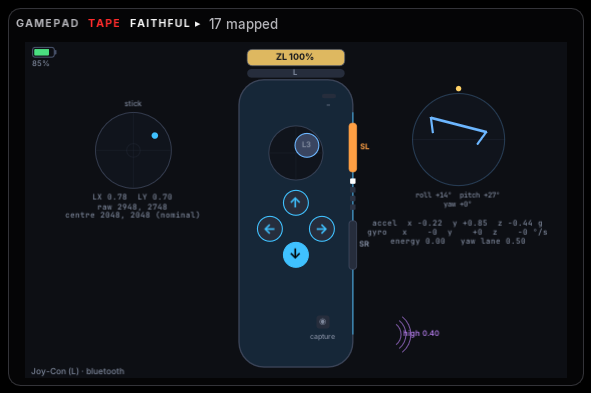
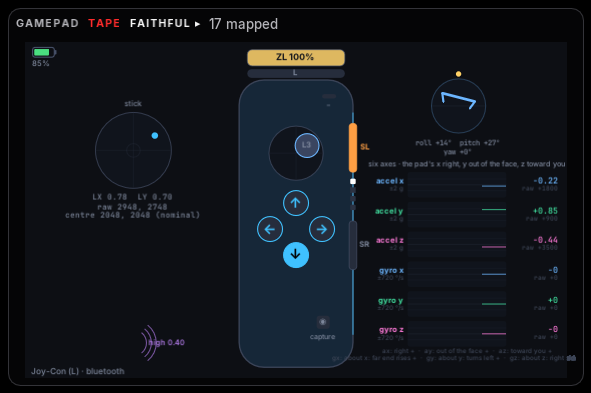
Plan 46: all six axes in the pad window — a scope in Faithful, bars in Cockpit
- ui_pad_lab._scope: the accelerometer's x, y, z in g and the gyro's x,
  y, z in deg/s as six scrolling traces (the last 180 frames, kept on
  the panel), the value now and the chip's own count beside each, the
  axes' meaning under them; _six_bars: the same six as bipolar bars for
  the Cockpit, under the dial
- ui_pad_views.Reading.raw_sensors: the chip's counts beside the
  calibrated reading
- Faithful's rumble rings moved under the stick's well; the Joy-Con shots
  re-rendered; a test that the scope keeps six capped traces

Claude-Session: https://claude.ai/code/session_01MdgFGMN9iTxjaBgkToskkT

diff --git a/hyperspace-python/hyperspace/ui_pad_lab.py b/hyperspace-python/hyperspace/ui_pad_lab.py
@@ -858,24 +858,15 @@ def _faithful_joycon(p: Pen, r, st: dict, now: float, players, r_low, r_high) ->
     for i in range(4):
         p.rr(rail_x - 5, 252 + i * 16, 10, 10, 2)
         p.fill("#ffffff" if (lit >> i) & 1 else "#2b3242")
-    _rumble_rings(p, r_low, r_high, 330, 540, 670, 540)
+    _rumble_rings(p, r_low, r_high, 200, 470, 200, 555)        # under the stick's well
     p.restore()
-    # the tilt, big, and the sensors' numbers under it
+    # the tilt (what the lanes make of it), then all six axes as traces
     if r.has("motion"):
-        _attitude(p, r, st, 800, 180, 85, True, now)
-        s = r.sensors
-        if s is not None:
-            (gx, gy, gz), (ax, ay, az) = s
-            p.text(f"accel  x {ax:+.2f}  y {ay:+.2f}  z {az:+.2f} g", 800, 335, size=11,
-                   color="dim", mono=True)
-            p.text(f"gyro   x {gx:+5.0f}  y {gy:+5.0f}  z {gz:+5.0f} °/s", 800, 352, size=11,
-                   color="dim", mono=True)
+        _attitude(p, r, st, 800, 118, 50, True, now)
         m = r.motion
-        if m is not None:
-            p.text(f"energy {m.get('energy', 0.0):.2f}   yaw lane {m.get('yaw', 0.5):.2f}",
-                   800, 369, size=11, color="dim", mono=True)
         if m is not None and _pulse(st, "shake_word", bool(m.get("shake")), now):
-            p.text("SHAKE", 800, 440, size=22, color="hot", weight=800)
+            p.text("SHAKE", 930, 60, size=20, color="hot", weight=800)
+        _scope(p, r, st, 648, 236, 336, 55)
     # the stick's calibration: its well with the deadzone ring, the reading
     cx, cy, rad = 200, 200, 70
     p.circle(cx, cy, rad)
@@ -927,6 +918,7 @@ def _cockpit_joycon(p: Pen, r, st: dict, now: float, players, r_low, r_high) -> 
     _dial(p, r, st, 245, 270, "L" if left else "R", _trig(None), stick="LSTICK", ax="LX", ay="LY")
     if r.has("motion"):
         _attitude(p, r, st, 640, 240, 115, True, now)
+        _six_bars(p, r, 104, 438, 282)             # all six axes, as bars, under the dial
     names = ("VIEW", "SHARE") if left else ("MENU", "GUIDE")
     for i, n in enumerate(names):
         x, on = 608 + i * 64, _pressed(r, n)
@@ -953,6 +945,114 @@ def _cockpit_joycon(p: Pen, r, st: dict, now: float, players, r_low, r_high) -> 
             p.fill(c)
         p.text(f"rumble {lbl}", x + 30, 368, size=8, color="faint")
     _ticker(p, r, st, now)
+
+
+# the six axes: (key, label, unit, full scale), accel in g then gyro in deg/s,
+# in the pad's axes — x right, y up out of the face, z toward the player
+SCOPE_N = 180                 # samples kept per trace (~3 s at the pad window's rate)
+ACCEL_FS, GYRO_FS = 2.0, 720.0
+SIX_AXES = (("ax", "accel x", "g", ACCEL_FS), ("ay", "accel y", "g", ACCEL_FS),
+            ("az", "accel z", "g", ACCEL_FS), ("gx", "gyro x", "°/s", GYRO_FS),
+            ("gy", "gyro y", "°/s", GYRO_FS), ("gz", "gyro z", "°/s", GYRO_FS))
+SIX_INK = {"ax": "#6cb6ff", "ay": "#40e0a0", "az": "#ff7ad9", "gx": "#6cb6ff", "gy": "#40e0a0",
+           "gz": "#ff7ad9"}
+SIX_WORDS = {"ax": "right +", "ay": "out of the face +", "az": "toward you +",
+             "gx": "about x: far end rises +", "gy": "about y: turns left +",
+             "gz": "about z: right side rises +"}
+
+
+def _six(r) -> dict[str, float] | None:
+    """The six axes this frame, by key, or None without sensor data."""
+    s = r.sensors
+    if s is None:
+        return None
+    (gx, gy, gz), (ax, ay, az) = s
+    return {"ax": ax, "ay": ay, "az": az, "gx": gx, "gy": gy, "gz": gz}
+
+
+def _scope(p: Pen, r, st: dict, x, y, w, row_h) -> None:
+    """All six degrees of freedom as traces (plan 46): the accelerometer's
+    x, y, z in g and the gyro's x, y, z in deg/s, each row the last
+    `SCOPE_N` frames scrolling left, its baseline at zero, the value now
+    and the chip's own count at the right. The traces are the state kept
+    on the panel (`st["scope"]`)."""
+    six = _six(r)
+    traces = st.setdefault("scope", {k: [] for k, *_ in SIX_AXES})
+    raw = r.raw_sensors
+    raw_by = {}
+    if raw is not None:
+        (rgx, rgy, rgz), (rax, ray, raz) = raw
+        raw_by = {"ax": rax, "ay": ray, "az": raz, "gx": rgx, "gy": rgy, "gz": rgz}
+    p.text("six axes · the pad's x right, y out of the face, z toward you", x + w / 2,
+           y - 10, size=10.5, color="dim")
+    label_w, val_w = 58, 96
+    tx0, tw = x + label_w, w - label_w - val_w
+    for k, (key, label, unit, fs) in enumerate(SIX_AXES):
+        ry = y + k * row_h
+        mid = ry + row_h / 2
+        tr = traces.setdefault(key, [])
+        if six is not None:
+            tr.append(float(six[key]))
+            del tr[:-SCOPE_N]
+        ink = SIX_INK[key]
+        p.rr(tx0, ry + 4, tw, row_h - 8, 4)
+        p.fill("well")
+        p.lines((tx0, mid), (tx0 + tw, mid))
+        p.stroke("#2a3242", 1)
+        for frac in (0.5, -0.5):                          # half scale, faint
+            p.lines((tx0, mid - frac * (row_h / 2 - 6)), (tx0 + tw, mid - frac * (row_h / 2 - 6)))
+            p.stroke("#1c2230", 1)
+        if len(tr) >= 2:
+            n = len(tr)
+            pts = [(tx0 + tw * (i / (SCOPE_N - 1)) + tw * (1 - (n - 1) / (SCOPE_N - 1)),
+                    mid - max(-1.0, min(1.0, v / fs)) * (row_h / 2 - 6)) for i, v in enumerate(tr)]
+            p.lines(*pts)
+            p.stroke(ink, 1.6, cap="round")
+        p.text(label, x + label_w - 6, mid - 6, size=11, color=ink, align="right", weight=700)
+        p.text(f"±{fs:g} {unit}", x + label_w - 6, mid + 8, size=9, color="faint", align="right")
+        if six is not None:
+            v = six[key]
+            p.text(f"{v:+.2f}" if unit == "g" else f"{v:+.0f}", x + w, mid - 6, size=12,
+                   color=ink, align="right", mono=True, weight=700)
+            if key in raw_by:
+                p.text(f"raw {raw_by[key]:+d}", x + w, mid + 8, size=9, color="faint",
+                       align="right", mono=True)
+        else:
+            p.text("—", x + w, mid, size=12, color="faint", align="right")
+    p.text("  ·  ".join(f"{k}: {SIX_WORDS[k]}" for k in ("ax", "ay", "az")), x + w / 2,
+           y + 6 * row_h + 6, size=9, color="faint")
+    p.text("  ·  ".join(f"{k}: {SIX_WORDS[k]}" for k in ("gx", "gy", "gz")), x + w / 2,
+           y + 6 * row_h + 18, size=9, color="faint")
+    p.hit(x, y, w, 6 * row_h, "motion:spin.roll")
+
+
+def _six_bars(p: Pen, r, x, y, w) -> None:
+    """The six axes as bipolar bars, for a glance: a bar from the centre
+    for each, the accelerometer's in g, the gyro's in deg/s."""
+    six = _six(r)
+    row_h = 17
+    label_w = 52
+    bx, bw = x + label_w, w - label_w - 44
+    for k, (key, label, unit, fs) in enumerate(SIX_AXES):
+        ry = y + k * row_h
+        ink = SIX_INK[key]
+        p.rr(bx, ry + 4, bw, row_h - 8, 4)
+        p.fill("#161b26")
+        cx = bx + bw / 2
+        p.lines((cx, ry + 3), (cx, ry + row_h - 3))
+        p.stroke("#2b3446", 1)
+        p.text(label, bx - 5, ry + row_h / 2, size=9.5, color=ink, align="right", weight=700)
+        if six is None:
+            continue
+        u = max(-1.0, min(1.0, six[key] / fs))
+        if abs(u) > 0.004:
+            x0, x1 = (cx, cx + u * bw / 2) if u > 0 else (cx + u * bw / 2, cx)
+            p.rr(x0, ry + 5, max(0.5, x1 - x0), row_h - 10, 3)
+            p.fill(ink, 0.9)
+        v = six[key]
+        p.text(f"{v:+.2f}" if unit == "g" else f"{v:+.0f}", x + w, ry + row_h / 2, size=9.5,
+               color=ink, align="right", mono=True)
+    p.hit(x, y, w, 6 * row_h, "motion:spin.roll")
 
 
 VIEWS = {"faithful": faithful, "cockpit": cockpit}

diff --git a/hyperspace-python/hyperspace/ui_pad_views.py b/hyperspace-python/hyperspace/ui_pad_views.py
@@ -89,6 +89,7 @@ class Reading:
     # see them (gyro deg/s, accel g, in the pad's axes), the stick's raw
     # 12-bit reading, the centre in use and where it came from
     sensors: tuple | None = None           # ((gx, gy, gz), (ax, ay, az))
+    raw_sensors: tuple | None = None       # the chip's own counts, ((gx, gy, gz), (ax, ay, az))
     stick_raw: tuple | None = None         # (x, y) raw
     stick_centre: tuple | None = None      # (cx, cy) raw
     centre_from: str = ""                  # "rest", "user", "flash", "nominal"
@@ -154,7 +155,9 @@ def read(pad) -> Reading:
                    motion=motion, degrees=degrees, effects=getattr(pad, "effects", None),
                    battery=bat if isinstance(bat, int) else -1,
                    link=str(getattr(pad, "link", "") or ""),
-                   sensors=sensors, stick_raw=raw, stick_centre=centre, centre_from=centre_from)
+                   sensors=sensors, stick_raw=raw, stick_centre=centre, centre_from=centre_from,
+                   raw_sensors=((tuple(report.gyro), tuple(report.accel))
+                                if on and getattr(report, "full", False) else None))
 
 
 def _calibration_of(pad, report, model):

diff --git a/hyperspace-python/tests/test_pads_nintendo.py b/hyperspace-python/tests/test_pads_nintendo.py
@@ -413,6 +413,13 @@ def test_the_lab_draws_a_joycon_as_itself():
     for _ in range(ui_pad_lab.TRAIL + 5):
         _drawn("cockpit", pad, st)
     assert [k for k, _t in st["events"]] == ["pad:A", "pad:LP"]
+    # Faithful's six-axis scope: a trace per axis, kept on the panel, capped
+    scope = {}
+    for _ in range(ui_pad_lab.SCOPE_N + 7):
+        _drawn("faithful", pad, scope)
+    assert set(scope["scope"]) == {"ax", "ay", "az", "gx", "gy", "gz"}
+    assert {len(t) for t in scope["scope"].values()} == {ui_pad_lab.SCOPE_N}
+    assert abs(scope["scope"]["ay"][-1] - 1.0) < 0.05           # flat: +1 g out of the face
     # the (R): its face, R / ZR, + and HOME, the one stick still the left stick
     dev = FakeJoyCon(reports=[full_report(b3=0x08 | 0x80)] * 40)      # A, ZR
     reader = stepped(JOYCON_R, dev)
